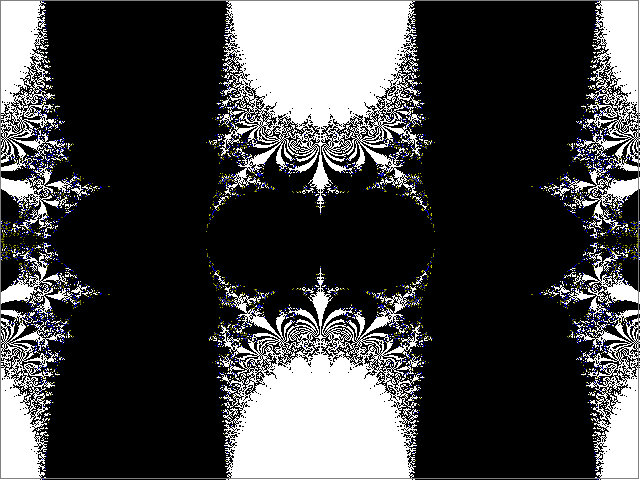
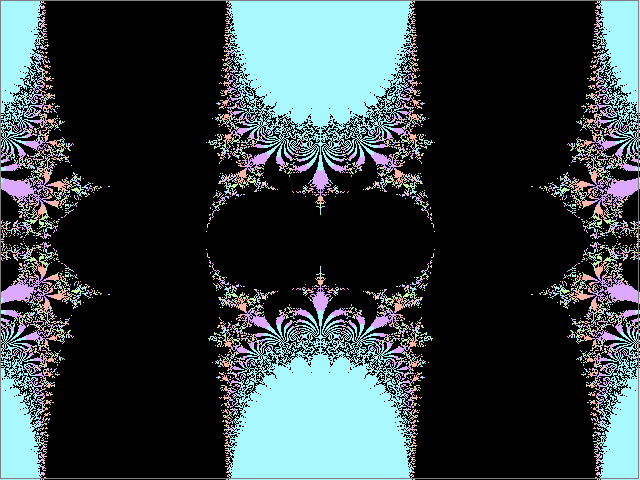
changed queue in tasks, add fractal images

diff --git a/project/fractal-parallel-tasks/src/FractalPartThread.java b/project/fractal-parallel-tasks/src/FractalPartThread.java
@@ -1,18 +1,16 @@
 import java.awt.*;
 import java.awt.image.BufferedImage;
 import java.util.Calendar;
-import java.util.Queue;
-import java.util.Vector;
-import java.util.concurrent.ArrayBlockingQueue;
+import java.util.concurrent.ConcurrentLinkedQueue;
 
 import org.apache.commons.math3.complex.Complex;
 
 public class FractalPartThread extends Thread {
 	private final int index;
 	private final BufferedImage bufferedImage;
-	private final ArrayBlockingQueue<RowTask> tasks;
+	private final ConcurrentLinkedQueue<RowTask> tasks;
 
-	public FractalPartThread(int index, BufferedImage bufferedImage, ArrayBlockingQueue<RowTask> tasks) {
+	public FractalPartThread(int index, BufferedImage bufferedImage, ConcurrentLinkedQueue<RowTask> tasks) {
 		this.index = index;
 		this.bufferedImage = bufferedImage;
 		this.tasks = tasks;
@@ -26,8 +24,12 @@ public class FractalPartThread extends Thread {
             System.out.printf("Thread-%d started.%n", index);
         }
 
-        while (!tasks.isEmpty()) {
+        while (true) {
 			RowTask rowTask = tasks.poll();
+
+			if (rowTask == null) {
+				break;
+			}
 
             int yPixel = rowTask.getIndex();
 
@@ -51,7 +53,6 @@ public class FractalPartThread extends Thread {
             System.out.printf("Thread-%d execution time was (millis): %d%n", index, threadOverallTime);
         }
     }
-
 
 	private static double mapPixelWidthToRealAxis(int xPixel) {
 		double range = Main.maxReal - Main.minReal;
@@ -184,7 +185,7 @@ public class FractalPartThread extends Thread {
 			return 0x000000; // black
 		}
 		else {
-			return Color.HSBtoRGB((float) 128 * numberOfIterations / Main.maxPointIterations, 0.67f, 1);
+			return Color.HSBtoRGB((float) 128 * numberOfIterations / Main.maxPointIterations, 0.34f, 1);
 		}
 	}
 

diff --git a/project/fractal-parallel-tasks/src/Main.java b/project/fractal-parallel-tasks/src/Main.java
@@ -1,9 +1,12 @@
 import java.awt.Color;
 import java.awt.Graphics2D;
 import java.awt.image.BufferedImage;
+import java.io.File;
+import java.io.IOException;
 import java.util.ArrayList;
 import java.util.Calendar;
-import java.util.concurrent.ArrayBlockingQueue;
+import java.util.concurrent.ConcurrentLinkedQueue;
+import javax.imageio.ImageIO;
 
 import org.apache.commons.cli.*;
 
@@ -37,7 +40,7 @@ public class Main {
 
 		BufferedImage bufferedImage = new BufferedImage(width, height, BufferedImage.TYPE_3BYTE_BGR);
 		ArrayList<FractalPartThread> fractalThreads = new ArrayList<>(threadCount);
-		ArrayBlockingQueue<RowTask> tasks = new ArrayBlockingQueue<>(Main.height, true);
+		ConcurrentLinkedQueue<RowTask> tasks = new ConcurrentLinkedQueue<>();
 
 		// init image
 		Graphics2D graphics2D = bufferedImage.createGraphics();
